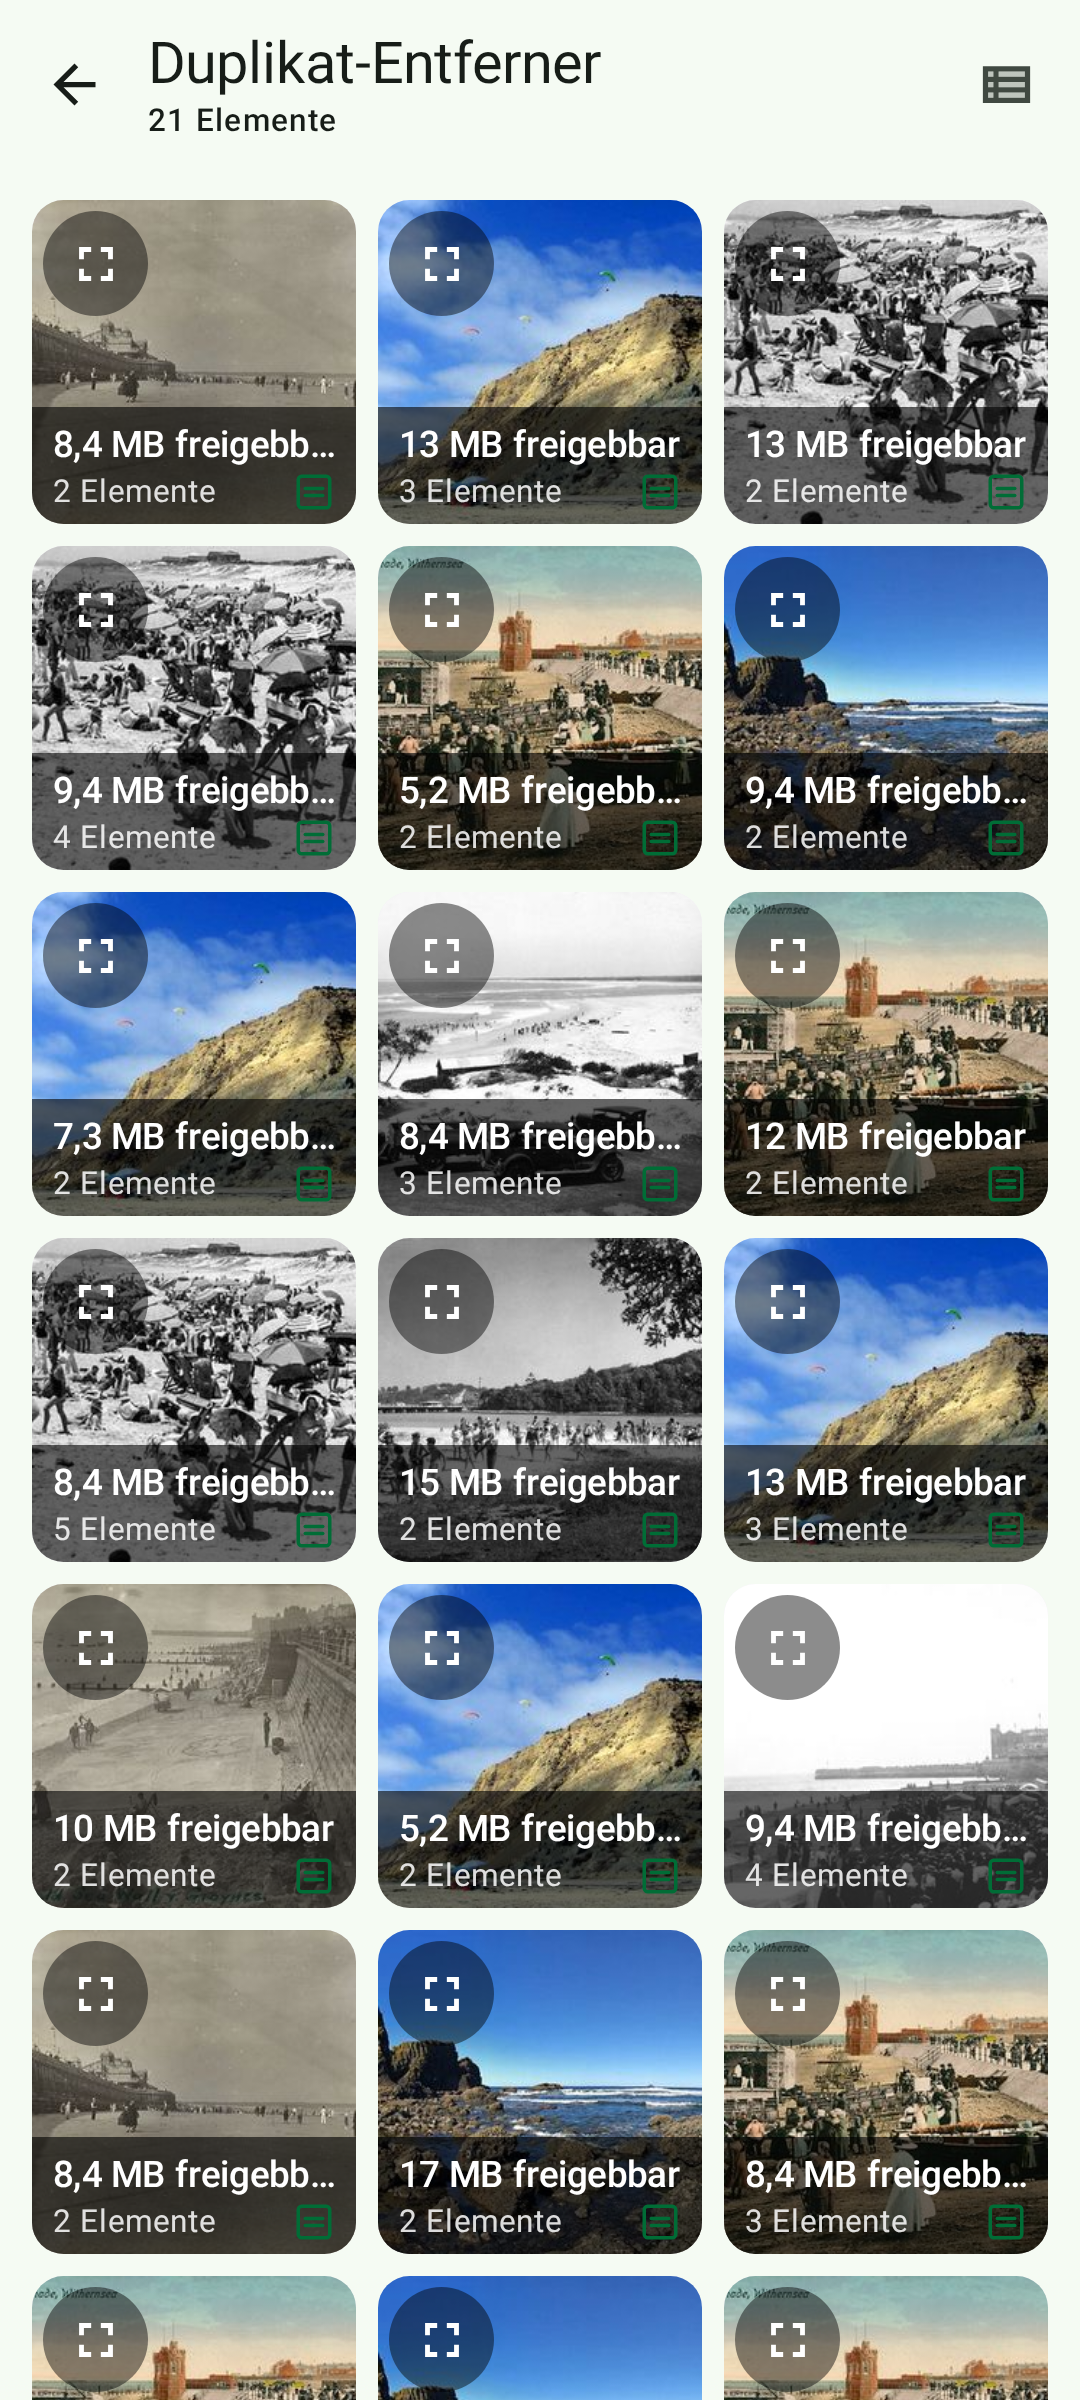
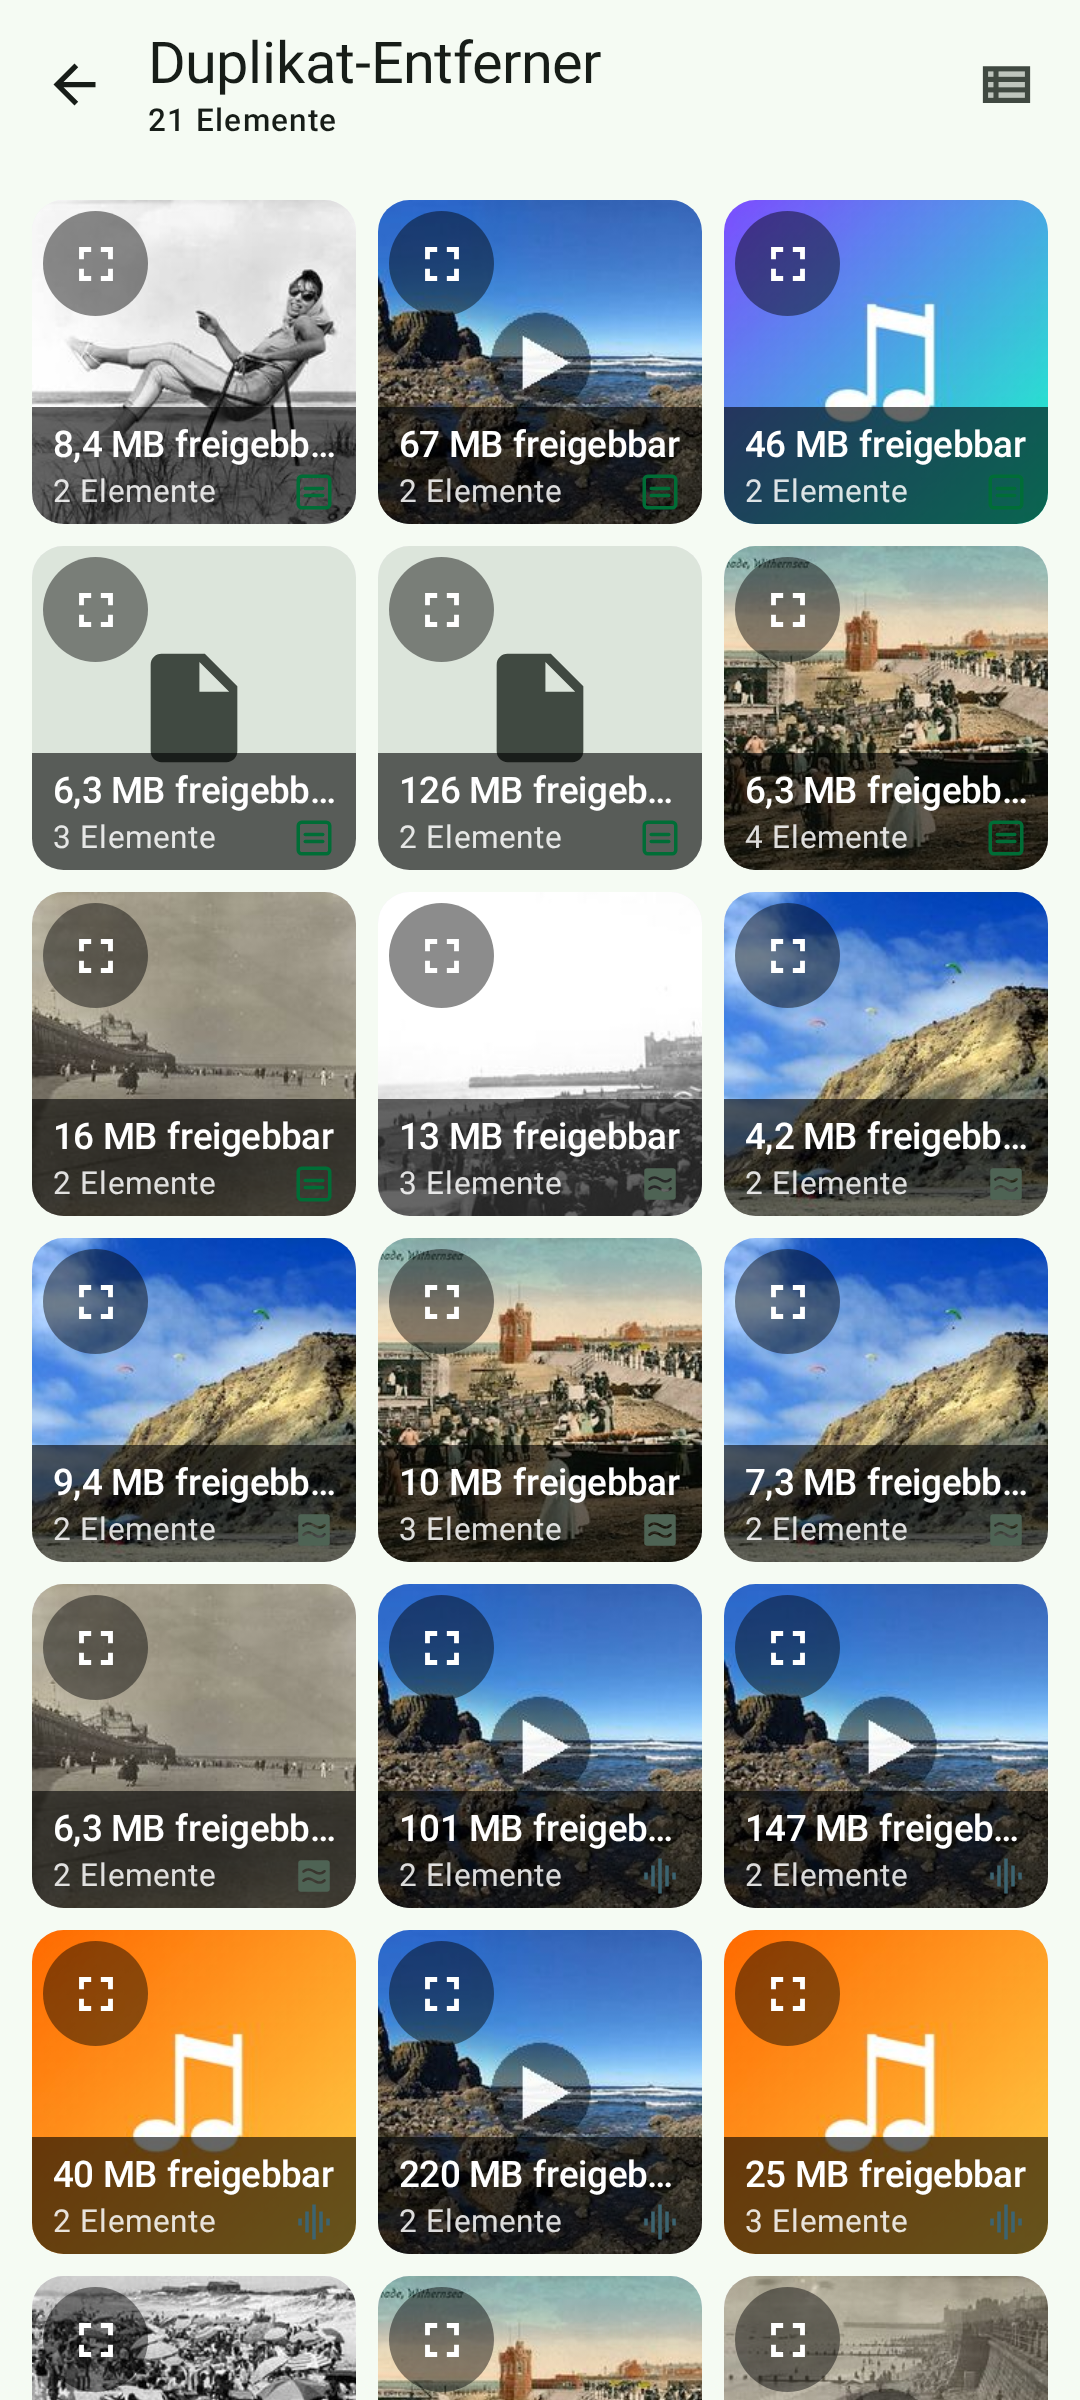
Deduplicator: Screenshot showcases all match types
The Deduplicator screenshot now spans every detection method and file kind so the
per-tile match-type badge varies across the grid:
- Exact byte matches (checksum) on images, video, audio, a document and an archive.
- Visually-similar images (perceptual hash).
- Similar video/audio (media).
- A couple of clusters matched two ways at once (checksum + perceptual hash).

Thumbnails are chosen by file extension: coastal photos for images, a play-badge
frame for video, album art for audio, and the file-type fallback icon for
documents/archives. Two small video/audio sample images were added under
debug/res (debug builds only). Screenshot-only; no app behavior changes.

diff --git a/app-tool-deduplicator/src/screenshotTest/kotlin/eu/darken/sdmse/deduplicator/screenshots/DeduplicatorScreenshots.kt b/app-tool-deduplicator/src/screenshotTest/kotlin/eu/darken/sdmse/deduplicator/screenshots/DeduplicatorScreenshots.kt
@@ -2,74 +2,145 @@ package eu.darken.sdmse.deduplicator.screenshots
 
 import androidx.compose.runtime.Composable
 import androidx.compose.runtime.CompositionLocalProvider
+import androidx.compose.ui.graphics.painter.Painter
 import androidx.compose.ui.res.painterResource
 import com.android.tools.screenshot.PreviewTest
 import eu.darken.sdmse.common.coil.LocalPreviewImageProvider
-import eu.darken.sdmse.common.coil.rememberSampleImageProvider
+import eu.darken.sdmse.common.coil.PreviewImageProvider
 import eu.darken.sdmse.common.compose.preview.PreviewWrapper
+import eu.darken.sdmse.common.files.APathLookup
+import eu.darken.sdmse.common.pkgs.Pkg
 import eu.darken.sdmse.common.ui.LayoutMode
 import eu.darken.sdmse.deduplicator.R
 import eu.darken.sdmse.deduplicator.core.Duplicate
 import eu.darken.sdmse.deduplicator.core.scanner.checksum.ChecksumDuplicate
+import eu.darken.sdmse.deduplicator.core.scanner.media.MediaDuplicate
+import eu.darken.sdmse.deduplicator.core.scanner.phash.PHashDuplicate
 import eu.darken.sdmse.deduplicator.ui.list.DeduplicatorListScreen
 import eu.darken.sdmse.deduplicator.ui.list.DeduplicatorListViewModel
+import eu.darken.sdmse.deduplicator.ui.list.DeduplicatorListViewModel.DeduplicatorListRow
 import eu.darken.sdmse.deduplicator.ui.preview.previewChecksumDuplicate
 import eu.darken.sdmse.deduplicator.ui.preview.previewCluster
+import eu.darken.sdmse.deduplicator.ui.preview.previewMediaDuplicate
+import eu.darken.sdmse.deduplicator.ui.preview.previewPHashDuplicate
 import kotlinx.coroutines.flow.MutableStateFlow
 
-// File thumbnails can't be loaded by Coil under layoutlib, so the render installs sample images via
-// LocalPreviewImageProvider (see FilePreviewImage). Here we feed real photo-like sample images (from
-// debug/res, picked deterministically per file path) so the grid reads as duplicate photos; each
-// cluster uses a distinct file name to get a distinct sample image and size.
+// The Deduplicator matches several ways and on several kinds of file. This screenshot spans all of it
+// so the per-tile MatchTypeIcons badge varies: CHECKSUM (exact bytes), PHASH (visually similar images)
+// and MEDIA (similar video/audio). The sample thumbnail is chosen by the file extension — real coastal
+// photos for images, a play-badge frame for video, album art for audio, and the file-type fallback icon
+// for documents/archives (all from debug/res, debug builds only).
 
 private const val MB = 1024L * 1024L
 
-private fun sampleRow(id: String, fileName: String, sizeMb: Long, copies: Int): DeduplicatorListViewModel.DeduplicatorListRow {
-    val base = fileName.substringBeforeLast('.')
-    val ext = fileName.substringAfterLast('.', "")
-    val size = sizeMb * MB
-    val duplicates = (0 until copies).map { i ->
-        val name = if (i == 0) fileName else "${base}_copy$i.$ext"
-        previewChecksumDuplicate(
-            pathSegments = arrayOf("storage", "emulated", "0", "Pictures", name),
-            size = size,
-            hashSeed = base,
-        )
-    }.toSet()
-    val keeper = duplicates.first()
-    val group = ChecksumDuplicate.Group(
-        duplicates = duplicates,
-        identifier = Duplicate.Group.Id("$id-group"),
-        keeperIdentifier = keeper.identifier,
-    )
-    val cluster = previewCluster(
-        identifier = Duplicate.Cluster.Id(id),
-        groups = setOf(group),
-        favoriteGroupIdentifier = group.identifier,
-    )
-    val targets = (duplicates - keeper).map { it.identifier }.toSet()
-    return DeduplicatorListViewModel.DeduplicatorListRow(
+private val IMAGE_EXT = setOf("jpg", "jpeg", "png", "webp", "heic", "gif")
+private val VIDEO_EXT = setOf("mp4", "mkv", "mov", "avi", "webm")
+private val AUDIO_EXT = setOf("mp3", "flac", "m4a", "wav", "ogg", "aac")
+
+private class DedupSampleProvider(
+    private val photos: List<Painter>,
+    private val videos: List<Painter>,
+    private val audio: List<Painter>,
+) : PreviewImageProvider {
+    @Composable
+    override fun fileImage(lookup: APathLookup<*>): Painter? {
+        val pool = when (lookup.path.substringAfterLast('.', "").lowercase()) {
+            in IMAGE_EXT -> photos
+            in VIDEO_EXT -> videos
+            in AUDIO_EXT -> audio
+            else -> return null // documents / archives -> file-type fallback icon
+        }
+        return pool[Math.floorMod(lookup.path.hashCode(), pool.size)]
+    }
+
+    @Composable
+    override fun appIcon(pkg: Pkg): Painter? = null // not used on this screen
+}
+
+private fun copies(name: String, n: Int): List<String> {
+    val base = name.substringBeforeLast('.')
+    val ext = name.substringAfterLast('.')
+    return (0 until n).map { i -> if (i == 0) name else "${base}_$i.$ext" }
+}
+
+private fun segs(dir: String, name: String) = arrayOf("storage", "emulated", "0", dir, name)
+
+private fun checksumGroup(gid: String, dir: String, name: String, sizeMb: Int, n: Int): ChecksumDuplicate.Group {
+    val dupes = copies(name, n)
+        .map { previewChecksumDuplicate(pathSegments = segs(dir, it), size = sizeMb.toLong() * MB, hashSeed = name) }
+        .toSet()
+    return ChecksumDuplicate.Group(duplicates = dupes, identifier = Duplicate.Group.Id(gid), keeperIdentifier = dupes.first().identifier)
+}
+
+private fun phashGroup(gid: String, name: String, sizeMb: Int, n: Int): PHashDuplicate.Group {
+    val dupes = copies(name, n)
+        .mapIndexed { i, fn -> previewPHashDuplicate(pathSegments = segs("Pictures", fn), size = sizeMb.toLong() * MB, similarity = if (i == 0) 1.0 else 0.9 - i * 0.03) }
+        .toSet()
+    return PHashDuplicate.Group(identifier = Duplicate.Group.Id(gid), duplicates = dupes, keeperIdentifier = dupes.first().identifier)
+}
+
+private fun mediaGroup(gid: String, dir: String, name: String, sizeMb: Int, n: Int): MediaDuplicate.Group {
+    val dupes = copies(name, n)
+        .mapIndexed { i, fn -> previewMediaDuplicate(pathSegments = segs(dir, fn), size = sizeMb.toLong() * MB, similarity = if (i == 0) 1.0 else 0.9 - i * 0.04) }
+        .toSet()
+    return MediaDuplicate.Group(identifier = Duplicate.Group.Id(gid), duplicates = dupes, keeperIdentifier = dupes.first().identifier)
+}
+
+private fun row(cid: String, vararg groups: Duplicate.Group): DeduplicatorListRow {
+    val cluster = previewCluster(Duplicate.Cluster.Id(cid), groups.toSet(), favoriteGroupIdentifier = groups.first().identifier)
+    val keeper = groups.first().duplicates.first().identifier
+    val all = groups.flatMap { it.duplicates }
+    val targets = all.map { it.identifier }.toSet() - keeper
+    return DeduplicatorListRow(
         cluster = cluster,
         deleteTargetIds = targets,
-        freeableSize = duplicates.filter { it.identifier in targets }.sumOf { it.size },
+        freeableSize = all.filter { it.identifier in targets }.sumOf { it.size },
     )
 }
+
+private val DEDUP_ROWS = listOf(
+    // Exact byte-for-byte (CHECKSUM) matches across different file kinds.
+    row("c-beach", checksumGroup("c-beach", "DCIM", "beach.jpg", 8, 2)),
+    row("c-clip", checksumGroup("c-clip", "Movies", "holiday_clip.mp4", 64, 2)),
+    row("c-podcast", checksumGroup("c-podcast", "Music", "podcast_ep.mp3", 44, 2)),
+    row("c-invoice", checksumGroup("c-invoice", "Documents", "invoice.pdf", 3, 3)),
+    row("c-backup", checksumGroup("c-backup", "Download", "backup.zip", 120, 2)),
+    row("c-logo", checksumGroup("c-logo", "Pictures", "logo.png", 2, 4)),
+    row("c-wedding", checksumGroup("c-wedding", "DCIM", "wedding.jpg", 15, 2)),
+    // Visually similar images (PHASH).
+    row("p-sunset", phashGroup("p-sunset", "sunset.jpg", 6, 3)),
+    row("p-portrait", phashGroup("p-portrait", "portrait.jpg", 4, 2)),
+    row("p-skyline", phashGroup("p-skyline", "skyline.jpg", 9, 2)),
+    row("p-garden", phashGroup("p-garden", "garden.jpg", 5, 3)),
+    row("p-street", phashGroup("p-street", "street.jpg", 7, 2)),
+    row("p-hiking", phashGroup("p-hiking", "hiking.jpg", 6, 2)),
+    // Similar video / audio (MEDIA).
+    row("m-trip", mediaGroup("m-trip", "Movies", "trip.mp4", 96, 2)),
+    row("m-concert", mediaGroup("m-concert", "Movies", "concert.mkv", 140, 2)),
+    row("m-liveset", mediaGroup("m-liveset", "Music", "live_set.flac", 38, 2)),
+    row("m-drone", mediaGroup("m-drone", "Movies", "drone.mov", 210, 2)),
+    row("m-track", mediaGroup("m-track", "Music", "album_track.m4a", 12, 3)),
+    // Clusters matched two ways at once (CHECKSUM + PHASH badges together).
+    row("x-cover", checksumGroup("x-cover-c", "DCIM", "cover.jpg", 5, 2), phashGroup("x-cover-p", "cover_edit.jpg", 5, 2)),
+    row("x-poster", checksumGroup("x-poster-c", "Pictures", "poster.png", 8, 2), phashGroup("x-poster-p", "poster_v2.png", 8, 2)),
+    row("m-holiday", mediaGroup("m-holiday", "Movies", "holiday.mp4", 72, 2)),
+)
 
 @PreviewTest
 @PlayStoreLocales
 @Composable
 fun DeduplicatorScreenshot() {
-    val sampleImages = rememberSampleImageProvider(
-        filePainters = COAST_DRAWABLES.map { painterResource(it) },
+    val provider = DedupSampleProvider(
+        photos = COAST_DRAWABLES.map { painterResource(it) },
+        videos = VIDEO_DRAWABLES.map { painterResource(it) },
+        audio = AUDIO_DRAWABLES.map { painterResource(it) },
     )
     PreviewWrapper {
-        CompositionLocalProvider(LocalPreviewImageProvider provides sampleImages) {
+        CompositionLocalProvider(LocalPreviewImageProvider provides provider) {
             DeduplicatorListScreen(
                 stateSource = MutableStateFlow(
                     DeduplicatorListViewModel.State(
-                        rows = DUPE_SPECS.mapIndexed { i, (name, sizeMb, copies) ->
-                            sampleRow("dupe-$i", name, sizeMb = sizeMb.toLong(), copies = copies)
-                        },
+                        rows = DEDUP_ROWS,
                         layoutMode = LayoutMode.GRID,
                     ),
                 ),
@@ -83,14 +154,5 @@ private val COAST_DRAWABLES = listOf(
     R.drawable.ss_coast_04, R.drawable.ss_coast_05, R.drawable.ss_coast_06, R.drawable.ss_coast_07,
     R.drawable.ss_coast_08, R.drawable.ss_coast_09,
 )
-
-// (fileName, sizeMb, copies) — distinct file names so the provider picks a spread of sample photos.
-private val DUPE_SPECS = listOf(
-    Triple("beach_day.jpg", 8, 2), Triple("sunset_bay.jpg", 6, 3), Triple("cliffs.jpg", 12, 2),
-    Triple("boardwalk.jpg", 3, 4), Triple("harbour.jpg", 5, 2), Triple("surfers.jpg", 9, 2),
-    Triple("tide_pool.jpg", 7, 2), Triple("lighthouse.jpg", 4, 3), Triple("seawall.jpg", 11, 2),
-    Triple("dunes.jpg", 2, 5), Triple("pier.jpg", 14, 2), Triple("rockpool.jpg", 6, 3),
-    Triple("shoreline.jpg", 10, 2), Triple("coast_road.jpg", 5, 2), Triple("seagulls.jpg", 3, 4),
-    Triple("driftwood.jpg", 8, 2), Triple("marina.jpg", 16, 2), Triple("sandbar.jpg", 4, 3),
-    Triple("cove.jpg", 7, 2), Triple("breakwater.jpg", 9, 2), Triple("promenade.jpg", 5, 3),
-)
+private val VIDEO_DRAWABLES = listOf(R.drawable.ss_video_00, R.drawable.ss_video_01)
+private val AUDIO_DRAWABLES = listOf(R.drawable.ss_audio_00, R.drawable.ss_audio_01)
